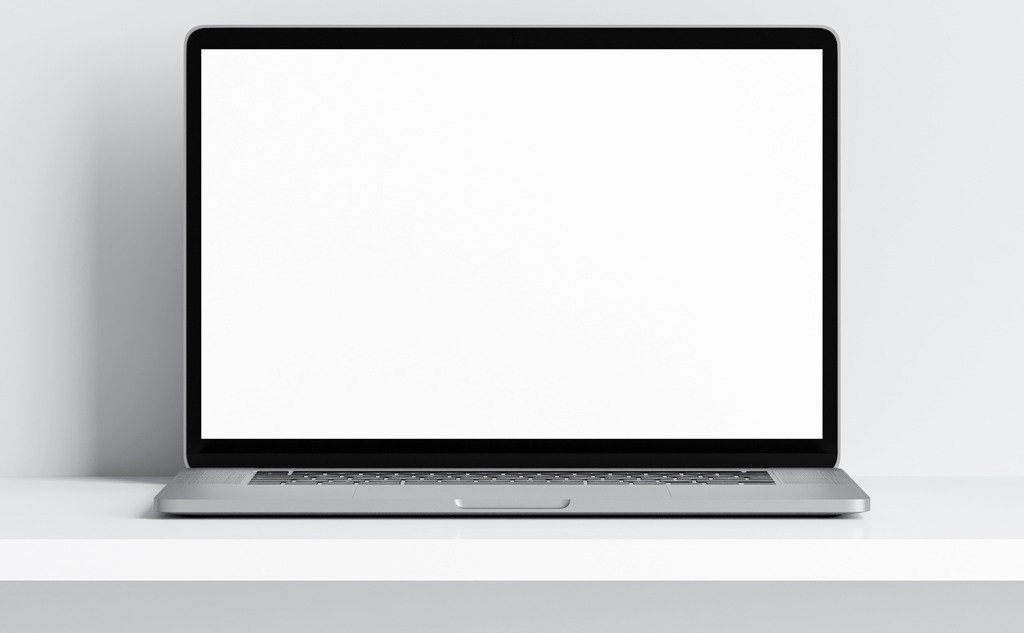
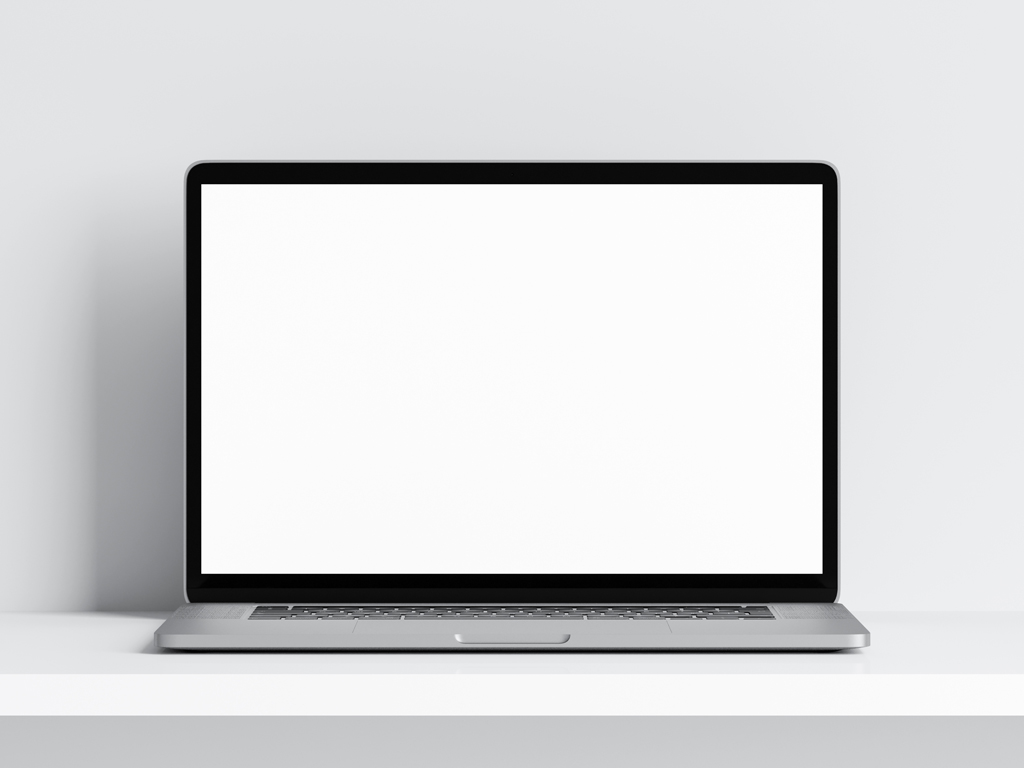
hero: mockup recortado, notebook inteiro sem espacos

Changed region(s): [[0.0625, 0.03, 0.8438, 0.3902], [0.0312, 0.6904, 0.875, 0.8705], [0.0, 0.9005, 1.0, 0.9305]]

diff --git a/index.html b/index.html
@@ -113,6 +113,8 @@
   .brand svg { width:26px; height:26px; }
   .brand b { font-weight:700; }
   .brand i { font-style:normal; color:var(--accent); font-weight:600; }
+  .nav-actions { display:flex; align-items:center; gap:10px; }
+  .nav-svc-m { display:none; }
   .wordmark { display:flex; align-items:center; gap:12px; color:var(--ink); text-decoration:none; }
   .wm-tile { height:34px; width:34px; border-radius:9px; display:block; }
   .wm-word { font-size:12.5px; font-weight:600; letter-spacing:0.26em; color:var(--ink); white-space:nowrap; }
@@ -128,13 +130,13 @@
   @media (max-width:860px) { .nav-links { display:none; } }
 
   /* ---------- HERO ---------- */
-  .hero { padding:0; }
+  .hero { padding:0; background:var(--paper); }
   .hero > .wrap { max-width:none; padding:0; }
 
   /* Laptop frame + live screen overlay (screen is its own container) */
   .imac-wrap { position:relative; width:100%; max-width:none; margin:0 auto; }
   .imac-frame { display:block; width:100%; height:auto; }
-  .laptop-screen { position:absolute; left:19.727%; top:7.899%; width:60.449%; height:61.137%; container-type:inline-size; overflow:hidden; background:var(--paper); display:flex; flex-direction:column; text-align:left; }
+  .laptop-screen { position:absolute; left:19.727%; top:6.849%; width:60.449%; height:66.267%; container-type:inline-size; overflow:hidden; background:var(--paper); display:flex; flex-direction:column; text-align:left; }
   .laptop-screen a { text-decoration:none; }
   .scr-rays { display:none; }
   .is-bar, .is-hero { position:relative; z-index:1; }
@@ -229,7 +231,7 @@
   .check-list { list-style:none; display:flex; flex-direction:column; gap:12px; margin-bottom:30px; }
   .check-list li { display:flex; align-items:center; gap:12px; font-size:14.5px; color:var(--ink); }
   .check-ico { width:22px; height:22px; border-radius:50%; background:var(--accent-tint); display:flex; align-items:center; justify-content:center; flex:none; }
-  @media (max-width:860px){ .print-grid { grid-template-columns:1fr; } .print-grid .print-media { order:-1; } }
+  @media (max-width:860px){ .print-grid { grid-template-columns:1fr; } }
 
   /* FAQ */
   .faq-list { border-top:1px solid var(--line); margin-top:clamp(28px,4vw,48px); max-width:900px; }
@@ -287,9 +289,13 @@
   /* ---------- MOBILE (UX pass) ---------- */
   @media (max-width:640px){
     .wrap { padding:0 22px; }
-    .nav-in { height:60px; gap:14px; }
+    .nav-in { height:60px; gap:12px; }
     .wm-tile { height:30px; width:30px; }
-    .nav-pill { font-size:12.5px; padding:11px 16px; }
+    .nav-links { display:none; }
+    .nav-svc-m { display:inline-flex; }
+    .nav-actions { gap:8px; }
+    .nav-pill { font-size:12.5px; padding:10px 15px; }
+    .nav-pill .ar { display:none; }
     /* tighter vertical rhythm */
     .sec { padding:52px 0; }
     #resultados.sec, #seguranca.sec, #impressoras.sec { padding-top:8px; }
@@ -318,9 +324,10 @@
     .check-list { align-items:flex-start; text-align:left; display:inline-flex; }
     /* FOOTER: stack + keep clear of WhatsApp FAB */
     footer { padding-bottom:96px; }
-    .ft-in { flex-direction:column; align-items:flex-start; gap:18px; padding:28px 0; }
-    .ft-links { width:100%; }
-    .ft-links a { flex:1; text-align:center; }
+    .ft-in { flex-direction:column; align-items:center; text-align:center; gap:20px; padding:36px 4px; }
+    .ft-brand { justify-content:center; }
+    .ft-links { width:100%; justify-content:center; gap:10px; }
+    .ft-links a { flex:1; min-width:92px; text-align:center; }
     /* form spacing */
     .lead-card { padding:30px 22px; }
     .lead-form input, .lead-form select { font-size:16px; }
@@ -342,7 +349,10 @@
       <a href="#impressoras">Impressoras</a>
       <a href="#faq">FAQ</a>
     </nav>
-    <a class="pill nav-pill" href="#contato">Orçamento <span class="ar">→</span></a>
+    <div class="nav-actions">
+      <a class="pill nav-pill nav-svc-m" href="#servicos">Serviços</a>
+      <a class="pill nav-pill" href="#contato">Orçamento <span class="ar">→</span></a>
+    </div>
   </div>
 </header>
 
@@ -352,7 +362,7 @@
   <section class="hero">
     <div class="wrap">
       <div class="imac-wrap">
-        <img class="imac-frame" src="img/laptop-top.jpg" alt="Notebook exibindo o site GX Good eXperience — tecnologia que simplesmente funciona">
+        <img class="imac-frame" src="img/laptop-crop.jpg" alt="Notebook exibindo o site GX Good eXperience — tecnologia que simplesmente funciona">
         <div class="laptop-screen">
           <div class="scr-rays"></div>
           <div class="is-bar">